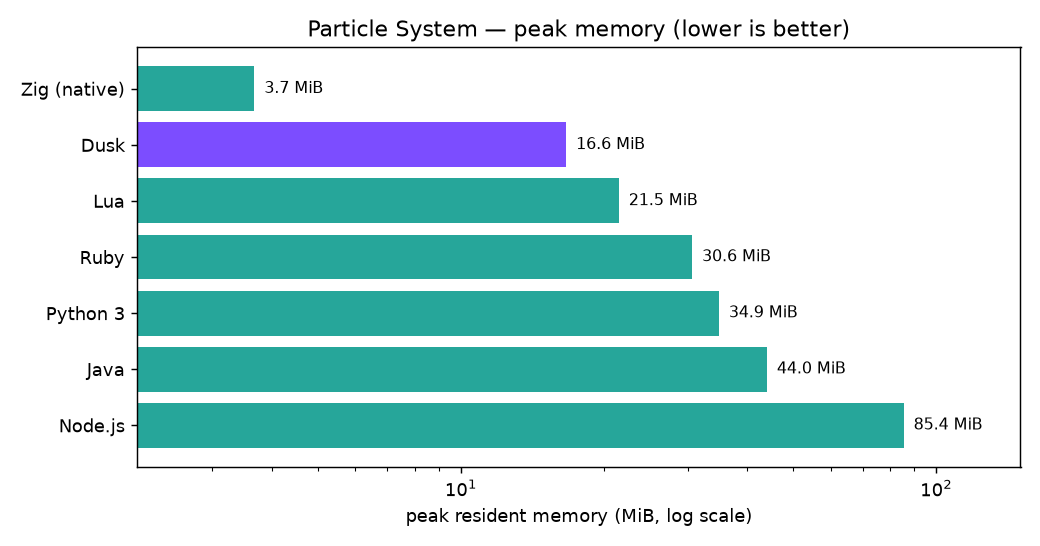
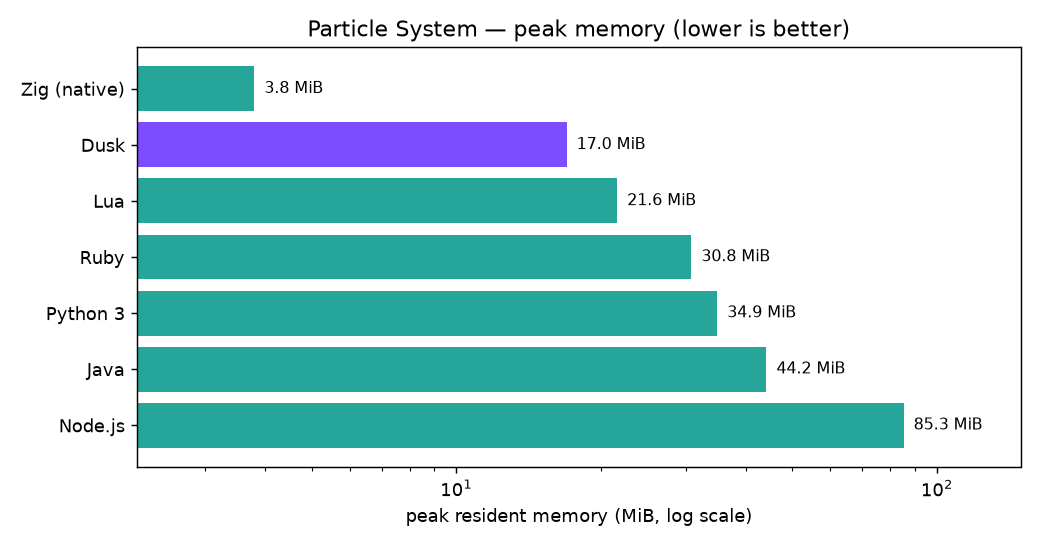
benchmark: regenerate report for v0.11

diff --git a/benchmarks/benchmark.md b/benchmarks/benchmark.md
@@ -16,24 +16,24 @@ python3 run_benchmarks.py
 | Field | Value |
 | --- | --- |
 | OS | Fedora Linux 44 (Workstation Edition) |
-| Kernel | Linux 7.0.12-201.fc44.x86_64 |
+| Kernel | Linux 7.2.10-200.fc44.x86_64 |
 | Architecture | x86_64 |
 | CPU | AMD Ryzen 5 5600X 6-Core Processor |
 | Cores / Threads | 6 cores / 12 threads |
 | CPU max | 4.65 GHz |
 | Memory | 31.2 GiB total |
-| Date | 2026-06-29 00:49 UTC |
+| Date | 2026-10-25 19:48 UTC |
 
 ## Language toolchains
 
 | Language | Version / mode |
 | --- | --- |
-| **Dusk** | **0.10.0 (git ef21578) — built with Zig 0.16.0, ReleaseFast** |
+| **Dusk** | **0.11.0-devel (git 66c9cb8) — built with Zig 0.16.0, ReleaseFast** |
 | Zig (native) | 0.16.0 — native baseline, build-exe -OReleaseFast |
-| Java | openjdk version 25.0.3 2026-04-21 — precompiled with javac, JVM startup included |
-| Node.js | v22.22.2 |
-| Python 3 | Python 3.14.5 |
-| Ruby | ruby 4.0.5 (2026-05-20 revision 64336ffd0e) +PRISM |
+| Java | openjdk version 25.0.4.1 2026-08-18 — precompiled with javac, JVM startup included |
+| Node.js | v22.23.1 |
+| Python 3 | Python 3.14.8 |
+| Ruby | ruby 4.0.7 (2026-09-15 revision 229531a6cf) +PRISM |
 | Lua | Lua 5.4.8  Copyright (C) 1994-2025 Lua.org, PUC-Rio |
 | hyperfine | hyperfine 1.20.0 |
 
@@ -55,13 +55,13 @@ Expected output: `9227465`
 
 | Language | Mean | Std dev | Min | Max | Relative | Peak mem |
 | --- | --- | --- | --- | --- | --- | --- |
-| Zig (native) | 19.0 ms | 137.7 µs | 18.8 ms | 19.9 ms | 1.00× | 0.7 MiB |
-| Java | 42.5 ms | 951.7 µs | 40.5 ms | 44.7 ms | 2.23× | 38.2 MiB |
-| Node.js | 146.0 ms | 3.5 ms | 142.5 ms | 159.5 ms | 7.67× | 58.6 MiB |
-| **Dusk** | **405.9 ms** | **21.6 ms** | **382.1 ms** | **433.5 ms** | **21.34×** | **1.0 MiB** |
-| Lua | 451.5 ms | 7.2 ms | 440.1 ms | 463.0 ms | 23.73× | 2.7 MiB |
-| Ruby | 708.5 ms | 34.2 ms | 687.1 ms | 767.2 ms | 37.24× | 14.4 MiB |
-| Python 3 | 885.5 ms | 8.8 ms | 873.8 ms | 893.9 ms | 46.54× | 9.1 MiB |
+| Zig (native) | 19.1 ms | 191.9 µs | 18.9 ms | 20.1 ms | 1.00× | 0.7 MiB |
+| Java | 42.0 ms | 808.2 µs | 40.2 ms | 43.3 ms | 2.20× | 38.3 MiB |
+| Node.js | 144.3 ms | 975.1 µs | 142.6 ms | 146.0 ms | 7.56× | 58.5 MiB |
+| **Dusk** | **413.3 ms** | **5.0 ms** | **407.9 ms** | **423.4 ms** | **21.66×** | **1.2 MiB** |
+| Lua | 452.2 ms | 6.5 ms | 443.8 ms | 459.0 ms | 23.70× | 2.7 MiB |
+| Ruby | 686.9 ms | 15.5 ms | 678.5 ms | 714.5 ms | 36.00× | 14.8 MiB |
+| Python 3 | 905.2 ms | 36.2 ms | 858.5 ms | 958.8 ms | 47.44× | 9.4 MiB |
 
 ![Recursive Fibonacci](assets/fib.png)
 
@@ -75,13 +75,13 @@ Expected output: `50049`
 
 | Language | Mean | Std dev | Min | Max | Relative | Peak mem |
 | --- | --- | --- | --- | --- | --- | --- |
-| Zig (native) | 6.1 ms | 268.1 µs | 5.5 ms | 7.2 ms | 1.00× | 3.7 MiB |
-| Java | 31.2 ms | 1.3 ms | 29.7 ms | 35.8 ms | 5.16× | 44.0 MiB |
-| Node.js | 148.1 ms | 3.4 ms | 145.2 ms | 160.8 ms | 24.44× | 85.4 MiB |
-| Lua | 257.6 ms | 4.5 ms | 250.3 ms | 264.9 ms | 42.53× | 21.5 MiB |
-| **Dusk** | **466.2 ms** | **30.8 ms** | **425.9 ms** | **500.7 ms** | **76.96×** | **16.6 MiB** |
-| Ruby | 1.489 s | 31.6 ms | 1.433 s | 1.507 s | 245.78× | 30.6 MiB |
-| Python 3 | 1.542 s | 56.8 ms | 1.485 s | 1.630 s | 254.55× | 34.9 MiB |
+| Zig (native) | 6.1 ms | 225.2 µs | 5.6 ms | 7.1 ms | 1.00× | 3.8 MiB |
+| Java | 31.7 ms | 1.3 ms | 30.0 ms | 36.3 ms | 5.19× | 44.2 MiB |
+| Node.js | 147.7 ms | 1.2 ms | 145.4 ms | 149.9 ms | 24.16× | 85.3 MiB |
+| Lua | 261.9 ms | 4.4 ms | 254.2 ms | 270.2 ms | 42.86× | 21.6 MiB |
+| **Dusk** | **459.3 ms** | **20.6 ms** | **422.5 ms** | **483.9 ms** | **75.16×** | **17.0 MiB** |
+| Ruby | 1.458 s | 17.5 ms | 1.438 s | 1.481 s | 238.57× | 30.8 MiB |
+| Python 3 | 1.681 s | 103.7 ms | 1.571 s | 1.803 s | 275.06× | 34.9 MiB |
 
 ![Particle System](assets/particles.png)
 
@@ -95,13 +95,13 @@ Expected output: `9592`
 
 | Language | Mean | Std dev | Min | Max | Relative | Peak mem |
 | --- | --- | --- | --- | --- | --- | --- |
-| Zig (native) | 685.9 µs | 59.7 µs | 560.6 µs | 1.2 ms | 1.00× | 0.8 MiB |
-| Lua | 5.1 ms | 189.0 µs | 4.8 ms | 6.0 ms | 7.50× | 4.9 MiB |
-| **Dusk** | **10.4 ms** | **390.4 µs** | **9.5 ms** | **12.7 ms** | **15.17×** | **2.8 MiB** |
-| Java | 16.2 ms | 455.1 µs | 15.3 ms | 18.2 ms | 23.62× | 38.2 MiB |
-| Python 3 | 23.0 ms | 1.4 ms | 21.7 ms | 32.9 ms | 33.59× | 10.0 MiB |
-| Ruby | 44.3 ms | 527.8 µs | 43.2 ms | 45.8 ms | 64.51× | 15.3 MiB |
-| Node.js | 74.2 ms | 963.6 µs | 72.5 ms | 76.0 ms | 108.19× | 59.9 MiB |
+| Zig (native) | 719.9 µs | 54.9 µs | 579.7 µs | 901.8 µs | 1.00× | 0.8 MiB |
+| Lua | 5.3 ms | 203.3 µs | 4.8 ms | 5.9 ms | 7.30× | 4.8 MiB |
+| **Dusk** | **9.0 ms** | **368.8 µs** | **8.1 ms** | **10.8 ms** | **12.51×** | **3.0 MiB** |
+| Java | 16.4 ms | 361.5 µs | 15.9 ms | 17.6 ms | 22.83× | 38.1 MiB |
+| Python 3 | 22.3 ms | 655.7 µs | 21.3 ms | 25.6 ms | 31.04× | 10.1 MiB |
+| Ruby | 44.4 ms | 527.3 µs | 43.6 ms | 46.8 ms | 61.73× | 15.3 MiB |
+| Node.js | 73.1 ms | 820.1 µs | 71.4 ms | 74.9 ms | 101.53× | 59.7 MiB |
 
 ![Sieve of Eratosthenes](assets/primes.png)
 
@@ -115,13 +115,13 @@ Expected output: `5001`
 
 | Language | Mean | Std dev | Min | Max | Relative | Peak mem |
 | --- | --- | --- | --- | --- | --- | --- |
-| Zig (native) | 626.4 µs | 54.4 µs | 510.9 µs | 790.8 µs | 1.00× | 0.7 MiB |
-| Lua | 3.0 ms | 86.3 µs | 2.7 ms | 3.4 ms | 4.75× | 3.1 MiB |
-| **Dusk** | **5.1 ms** | **187.2 µs** | **4.6 ms** | **7.2 ms** | **8.09×** | **1.3 MiB** |
-| Python 3 | 14.1 ms | 295.8 µs | 13.5 ms | 15.2 ms | 22.43× | 9.6 MiB |
-| Java | 15.8 ms | 447.4 µs | 15.0 ms | 17.8 ms | 25.21× | 38.5 MiB |
-| Ruby | 40.2 ms | 590.8 µs | 39.4 ms | 42.5 ms | 64.18× | 14.4 MiB |
-| Node.js | 73.3 ms | 3.2 ms | 70.5 ms | 90.2 ms | 117.07× | 59.0 MiB |
+| Zig (native) | 651.1 µs | 54.0 µs | 534.1 µs | 818.2 µs | 1.00× | 0.8 MiB |
+| Lua | 3.0 ms | 84.1 µs | 2.7 ms | 3.3 ms | 4.59× | 3.1 MiB |
+| **Dusk** | **4.7 ms** | **132.8 µs** | **4.3 ms** | **5.1 ms** | **7.23×** | **1.5 MiB** |
+| Python 3 | 14.2 ms | 231.5 µs | 13.8 ms | 15.2 ms | 21.75× | 9.8 MiB |
+| Java | 15.8 ms | 366.0 µs | 14.9 ms | 17.3 ms | 24.26× | 38.3 MiB |
+| Ruby | 40.4 ms | 385.2 µs | 39.7 ms | 41.7 ms | 62.05× | 14.7 MiB |
+| Node.js | 71.6 ms | 1.0 ms | 70.1 ms | 74.0 ms | 110.01× | 58.9 MiB |
 
 ![QuickSort](assets/quicksort.png)
 
@@ -135,13 +135,13 @@ Expected output: `141554306`
 
 | Language | Mean | Std dev | Min | Max | Relative | Peak mem |
 | --- | --- | --- | --- | --- | --- | --- |
-| Zig (native) | 306.6 ms | 409.5 µs | 306.2 ms | 307.5 ms | 1.00× | 0.7 MiB |
-| Java | 329.5 ms | 460.9 µs | 328.9 ms | 330.2 ms | 1.07× | 38.8 MiB |
-| Node.js | 381.6 ms | 1.6 ms | 380.3 ms | 384.7 ms | 1.24× | 60.8 MiB |
-| Lua | 4.281 s | 50.9 ms | 4.225 s | 4.341 s | 13.96× | 3.0 MiB |
-| **Dusk** | **5.693 s** | **217.7 ms** | **5.365 s** | **5.903 s** | **18.57×** | **1.0 MiB** |
-| Ruby | 9.717 s | 144.4 ms | 9.490 s | 9.817 s | 31.69× | 14.4 MiB |
-| Python 3 | 39.445 s | 1.555 s | 38.488 s | 42.180 s | 128.65× | 9.5 MiB |
+| Zig (native) | 306.0 ms | 42.3 µs | 306.0 ms | 306.1 ms | 1.00× | 0.7 MiB |
+| Java | 329.0 ms | 417.9 µs | 328.1 ms | 329.5 ms | 1.07× | 38.9 MiB |
+| Node.js | 379.8 ms | 530.0 µs | 379.1 ms | 380.6 ms | 1.24× | 60.8 MiB |
+| Lua | 4.387 s | 108.8 ms | 4.250 s | 4.525 s | 14.33× | 3.0 MiB |
+| **Dusk** | **7.713 s** | **54.2 ms** | **7.640 s** | **7.772 s** | **25.20×** | **1.2 MiB** |
+| Ruby | 9.987 s | 330.3 ms | 9.691 s | 10.509 s | 32.63× | 14.6 MiB |
+| Python 3 | 38.806 s | 806.4 ms | 38.205 s | 40.206 s | 126.80× | 9.5 MiB |
 
 ![Mandelbrot](assets/mandelbrot.png)
 

diff --git a/doc/changelogs.md b/doc/changelogs.md
@@ -26,6 +26,7 @@
 - Fixed compiler crash on unions with more than 256 variants
 - Rewrote the language reference for v0.11: enums, unions, nullables, operator precedence, errors and known limitations
 - Added `bench.py`: a Dusk-only benchmark runner with JSON output and `--compare <git-ref>` to measure a change against another version
+- Regenerated the benchmark report for v0.11
 - Internal: `@(...)` is parsed as its own `anonymous_init` expression, not as a call
 - Internal: renamed booleans to read as yes/no questions (`nullable` type flag → `is_nullable`, `coerce` → `canCoerce`, `typeNeedsNullBox` → `needsNullBox`, `findIsFieldMut` → `isFieldMut`, `alwaysReturns` → `areAllPathsReturning`, plus a few locals)
 - Internal: split sema's `visitWhenStmt` into smaller steps: resolving the subject, checking cases, checking exhaustiveness, storing the subject and lowering each case
